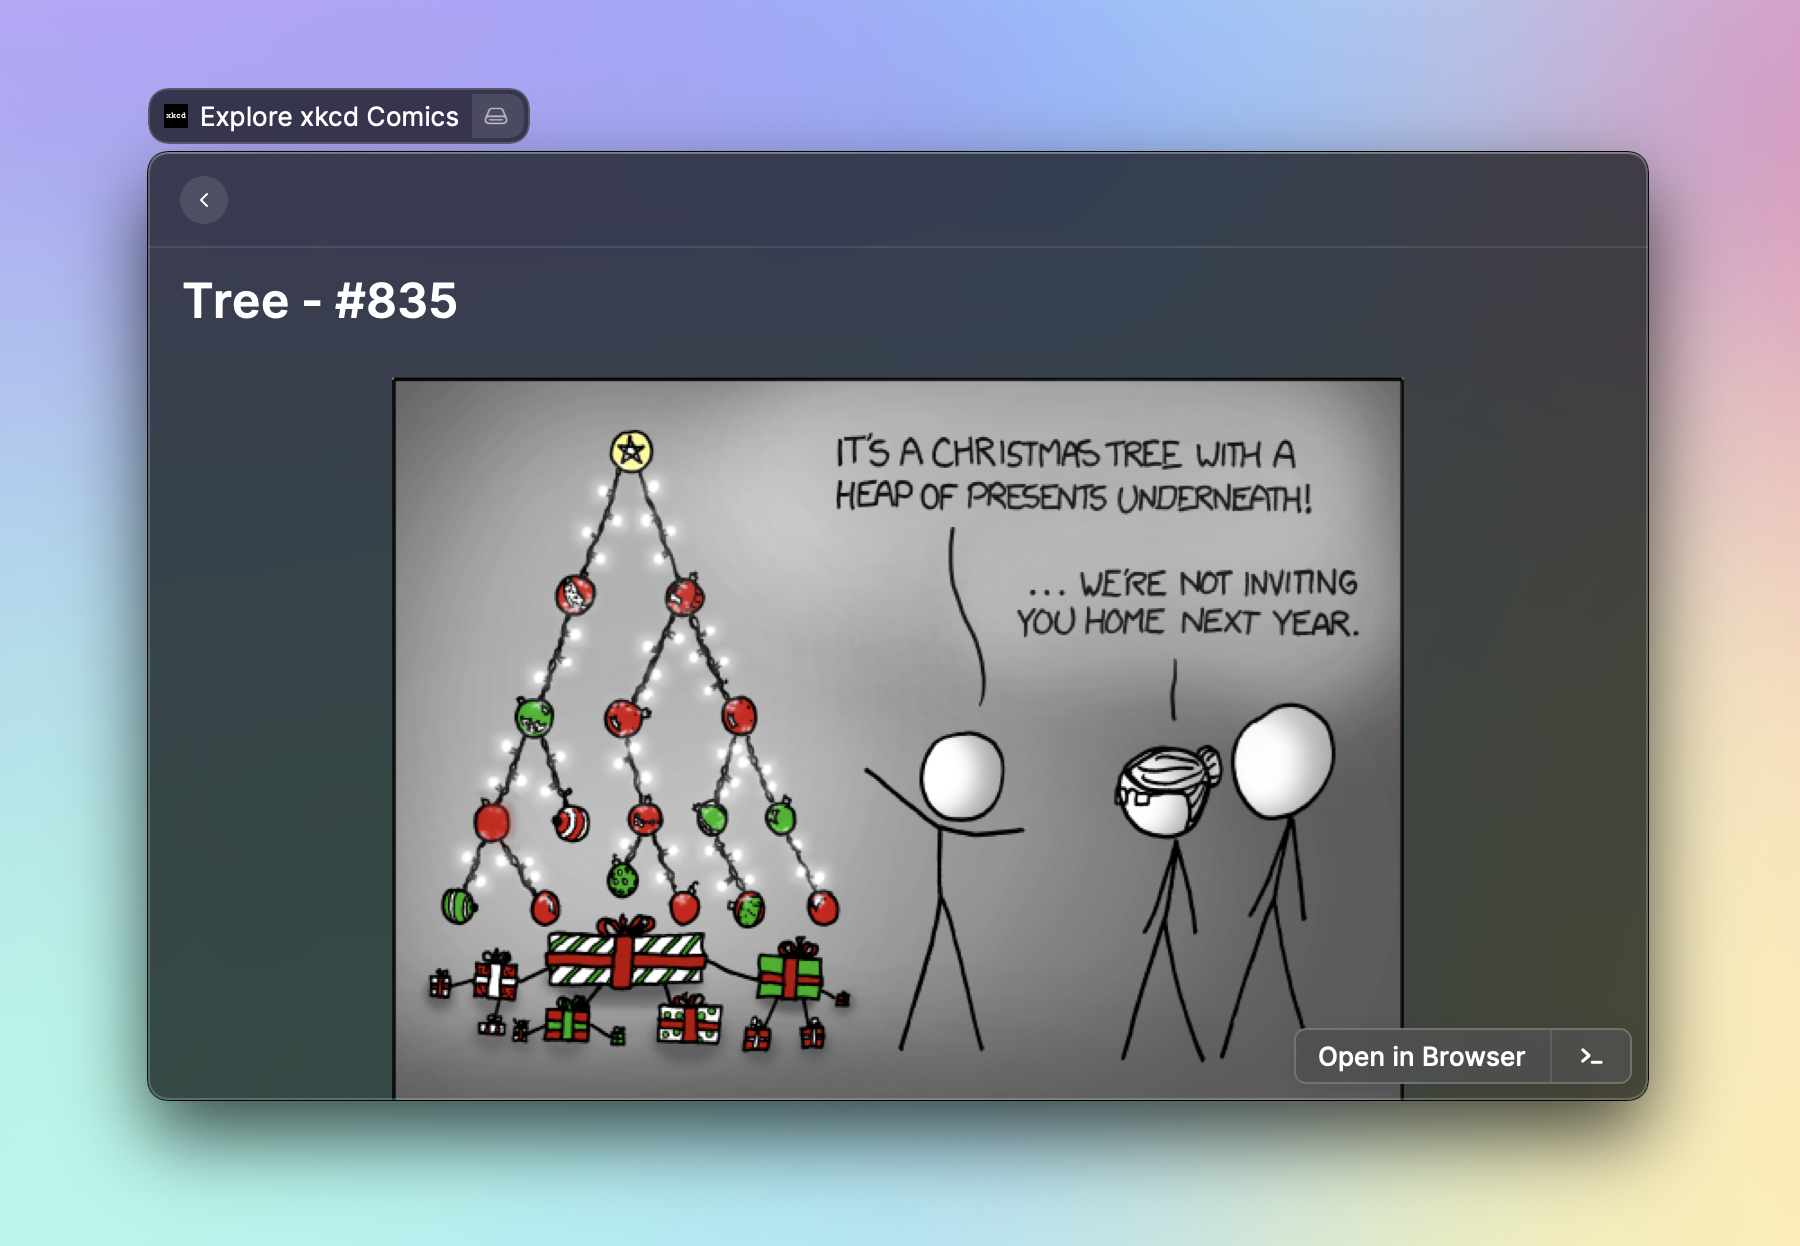
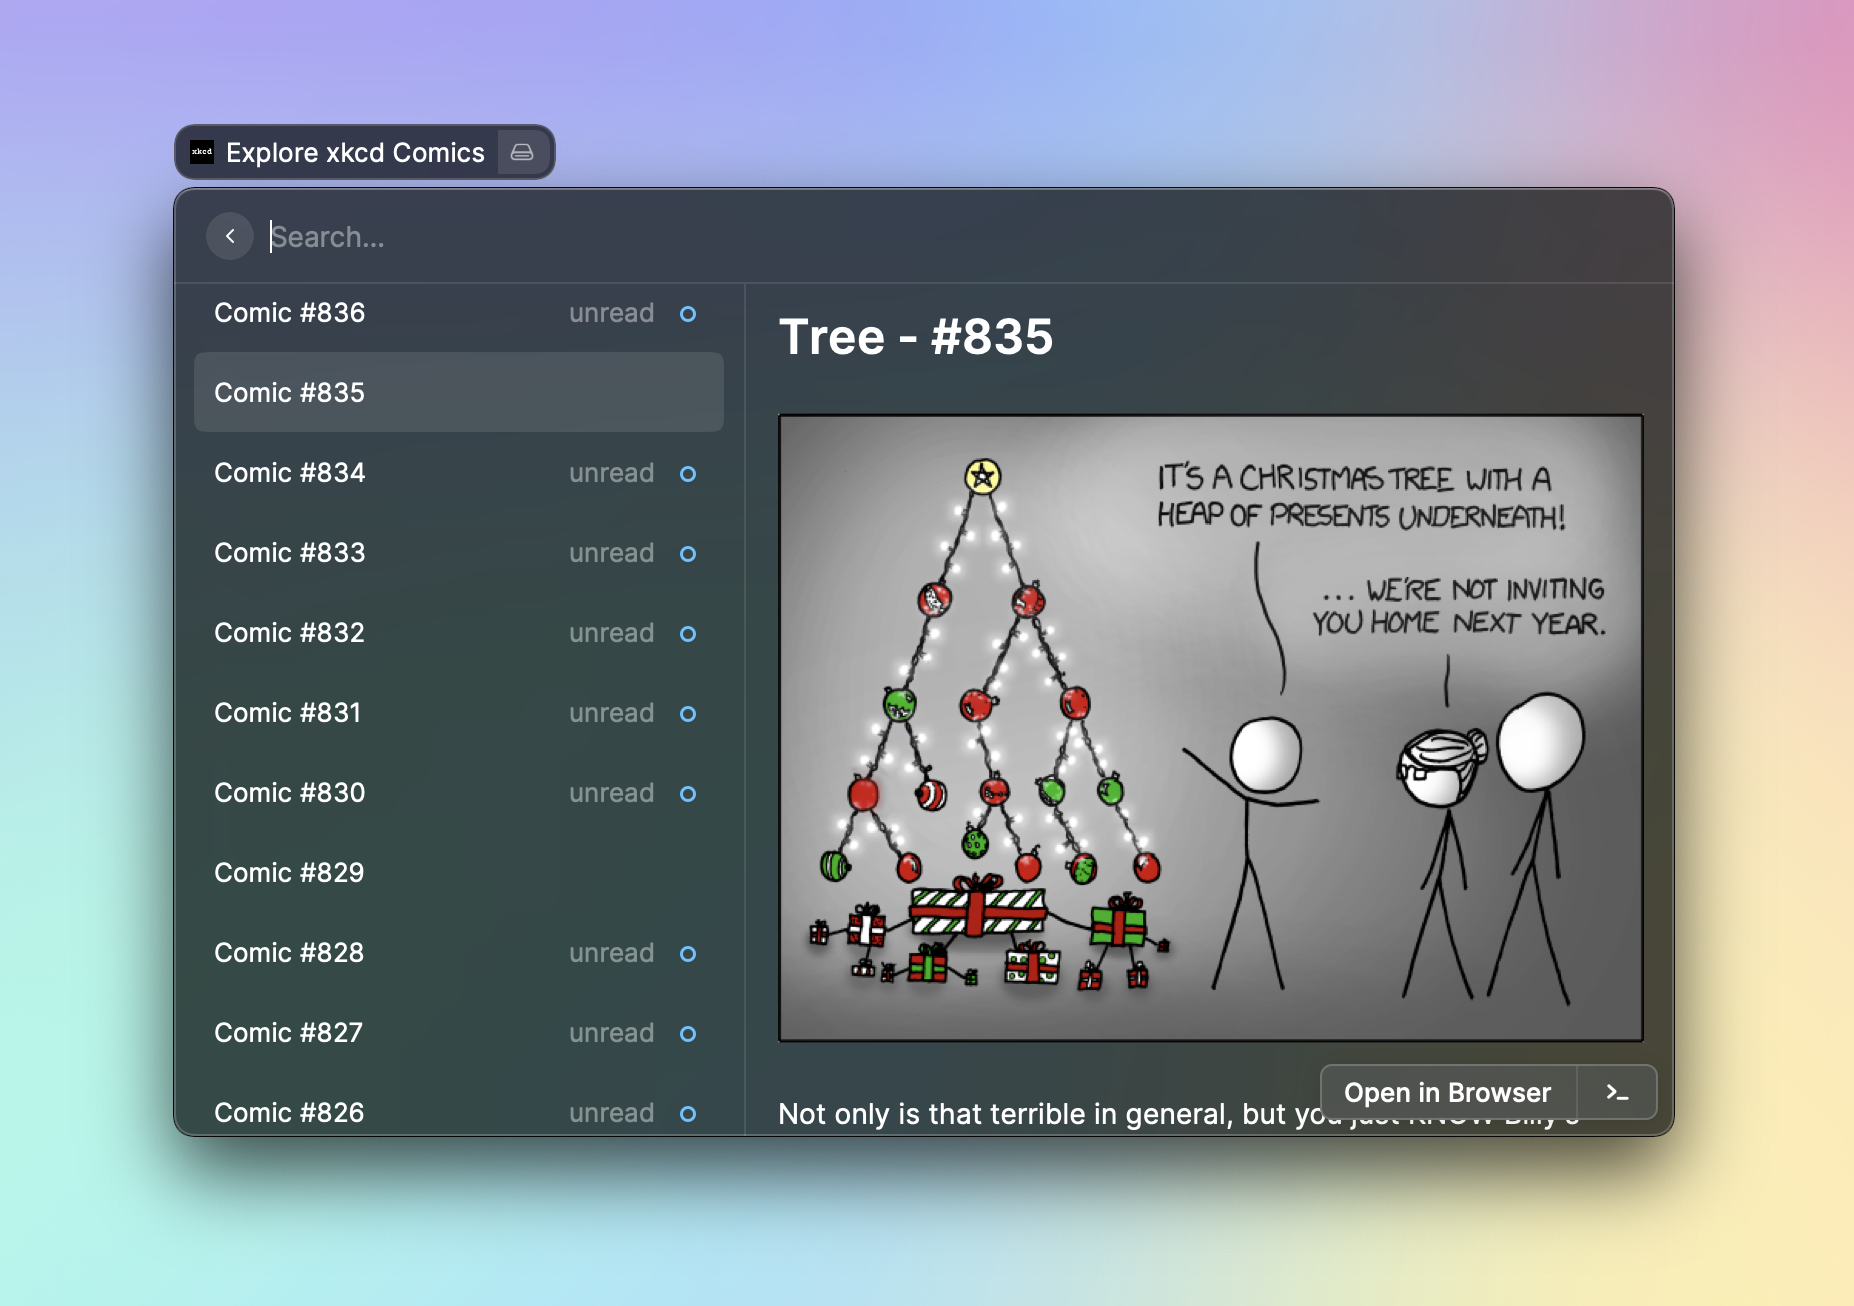
add back open in browser action

diff --git a/src/index.tsx b/src/index.tsx
@@ -2,8 +2,9 @@ import { Action, ActionPanel, Color, Icon, List, LocalStorage } from "@raycast/a
 import { useEffect, useState } from "react";
 import { Comic, fetchComic, maxNum } from "./xkcd";
 import { useAtom } from "jotai";
-import { lastViewedAtom, maxNumAtom, readStatusAtom, totalReadAtom } from "./atoms";
+import { currentComicAtom, lastViewedAtom, maxNumAtom, readStatusAtom, totalReadAtom } from "./atoms";
 import getRandomUnread from "./get_random_unread";
+import OpenComicInBrowser from "./open_in_browser";
 
 export default function main() {
   const [num, setNum] = useAtom(maxNumAtom);
@@ -12,7 +13,7 @@ export default function main() {
   const [totalRead] = useAtom(totalReadAtom);
   const [lastViewed, setLastViewed] = useAtom(lastViewedAtom);
   const [comicData, setComicData] = useState<Comic | null>(null);
-  const [currentComic, setCurrentComic] = useState(-1);
+  const [currentComic, setCurrentComic] = useAtom(currentComicAtom);
   const [selectedId, setSelectedId] = useState("");
   useEffect(() => {
     if (currentComic === -1) return;
@@ -91,6 +92,7 @@ ${comicData.alt}
                     setCurrentComic(getRandomUnread(readStatus, num));
                   }}
                 />
+                <OpenComicInBrowser />
               </ActionPanel>
             }
             detail={
@@ -113,6 +115,7 @@ ${comicData.alt}
                   setCurrentComic(Math.floor(Math.random() * num + 1));
                 }}
               />
+              <OpenComicInBrowser />
             </ActionPanel>
           }
           detail={
@@ -133,6 +136,11 @@ ${comicData.alt}
                 markdown={markdownString === null ? undefined : markdownString}
               />
             }
+            actions={
+              <ActionPanel>
+                <OpenComicInBrowser />
+              </ActionPanel>
+            }
           />
         )}
         <List.Item
@@ -144,6 +152,11 @@ ${comicData.alt}
               isLoading={markdownString === null}
               markdown={markdownString === null ? undefined : markdownString}
             />
+          }
+          actions={
+            <ActionPanel>
+              <OpenComicInBrowser />
+            </ActionPanel>
           }
         />
       </List.Section>
@@ -162,6 +175,11 @@ ${comicData.alt}
             }
             accessoryIcon={readStatus[num - idx] ? undefined : { source: Icon.Dot, tintColor: Color.Blue }}
             accessoryTitle={readStatus[num - idx] ? "" : "unread"}
+            actions={
+              <ActionPanel>
+                <OpenComicInBrowser />
+              </ActionPanel>
+            }
           />
         ))}
       </List.Section>

diff --git a/src/open_in_browser.tsx b/src/open_in_browser.tsx
@@ -1,0 +1,16 @@
+import { Action } from "@raycast/api";
+import { useAtom } from "jotai";
+import { currentComicAtom } from "./atoms";
+import { BASE_URL } from "./xkcd";
+
+const OpenComicInBrowser = () => {
+  const [currentComic] = useAtom(currentComicAtom);
+  return (
+    <Action.OpenInBrowser
+      icon={{ source: { light: "globe.png", dark: "globe@dark.png" } }}
+      url={`${BASE_URL}/${currentComic}/`}
+    />
+  );
+};
+
+export default OpenComicInBrowser;

diff --git a/src/atoms.ts b/src/atoms.ts
@@ -10,3 +10,4 @@ export const totalReadAtom = atom((get) => {
   return numberReadEntries;
 });
 export const lastViewedAtom = atom(-1);
+export const currentComicAtom = atom(-1);
